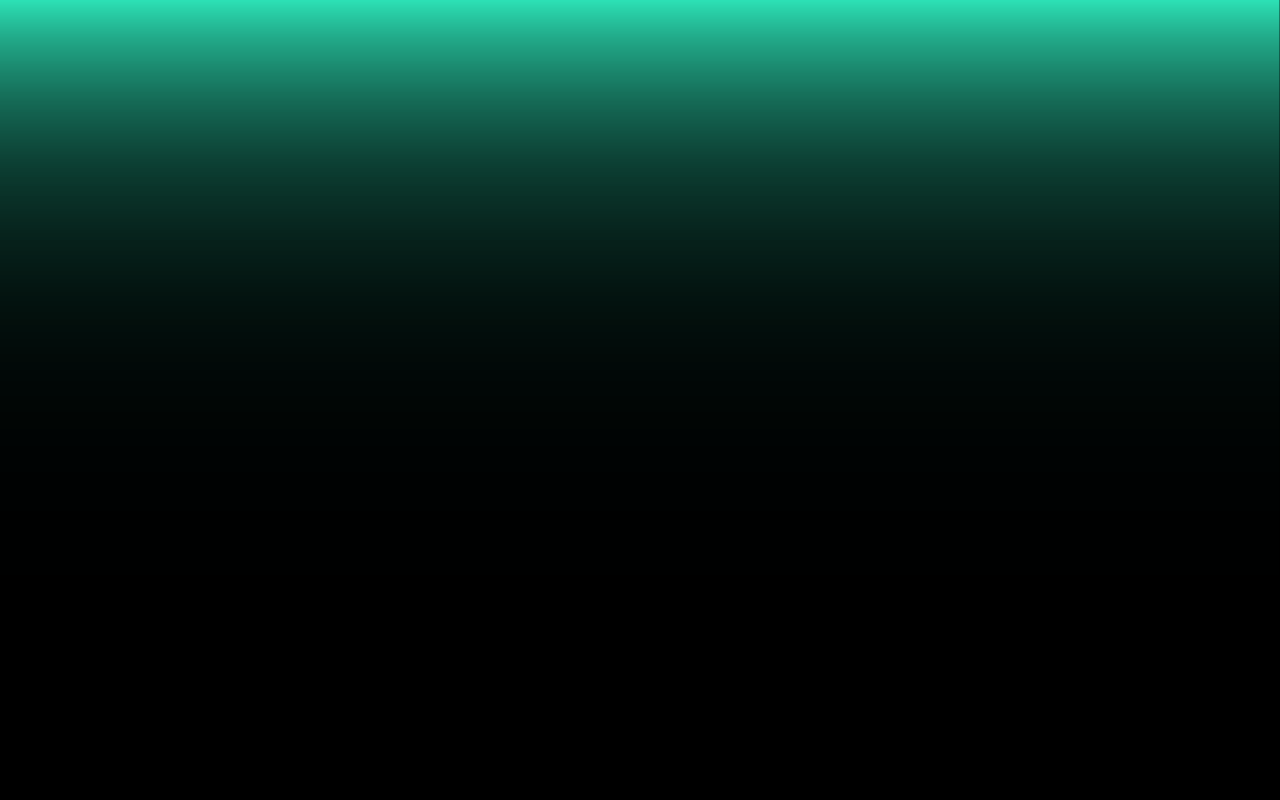
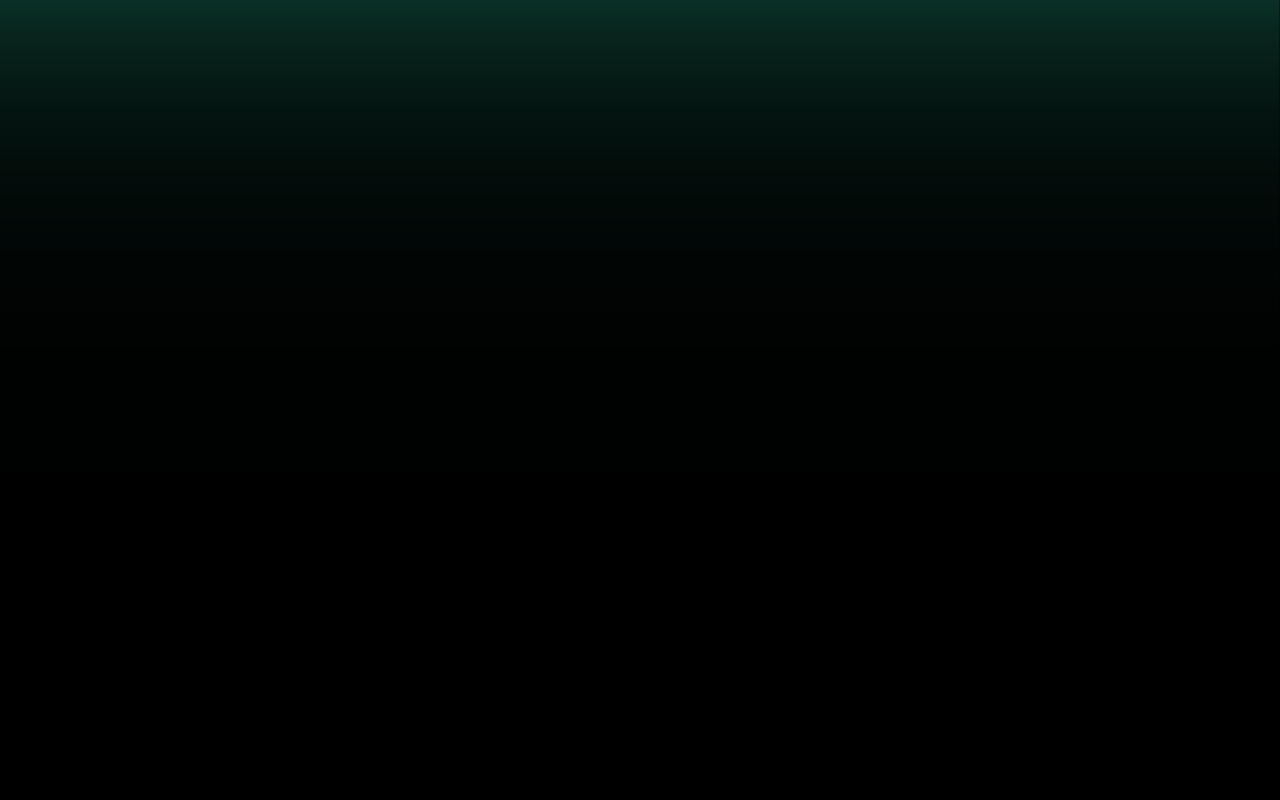
background adjustments

diff --git a/src/screens/homescreen/kongSupport/Kong.module.scss b/src/screens/homescreen/kongSupport/Kong.module.scss
@@ -4,7 +4,7 @@
     @include screenSize(100%, auto);
     @include displayFlex(center, center, column);
     background-color: $color3;
-    @include backgroundImage("/assets/home/bg_down.png");
+    @include backgroundImage("/assets/home/bg_try.png");
     position: relative;
     padding: 8em 0 2em 0;
     //mobile(M)

diff --git a/src/screens/homescreen/kubernetesSupport/Kubernetes.module.scss b/src/screens/homescreen/kubernetesSupport/Kubernetes.module.scss
@@ -4,7 +4,7 @@
     @include screenSize(100%, auto);
     @include displayFlex(center, center, column);
     background-color: $color3;
-    @include backgroundImage("/assets/home/bg_down.png");
+    @include backgroundImage("/assets/home/bg_try.png");
     position: relative;
     padding: 8em 0 2em 0;
     //mobile(M)

diff --git a/src/screens/homescreen/apiSupport/apiDevelopment.module.scss b/src/screens/homescreen/apiSupport/apiDevelopment.module.scss
@@ -4,7 +4,7 @@
     @include screenSize(100%, auto);
     @include displayFlex(center, center, column);
     background-color: $color3;
-    @include backgroundImage("/assets/home/bg_up.png");
+    @include backgroundImage("/assets/home/bg_try.png");
     position: relative;
     padding: 8em 0 2em 0;
     //mobile(M)

diff --git a/src/screens/homescreen/awsSupport/AwsSupport.module.scss b/src/screens/homescreen/awsSupport/AwsSupport.module.scss
@@ -4,7 +4,7 @@
     @include screenSize(100%, auto);
     @include displayFlex(center, center, column);
     background-color: $color3;
-    @include backgroundImage("/assets/home/bg_up.png");
+    @include backgroundImage("/assets/home/bg_try.png");
     position: relative;
     padding: 8em 0 2em 0;
     //mobile(M)
